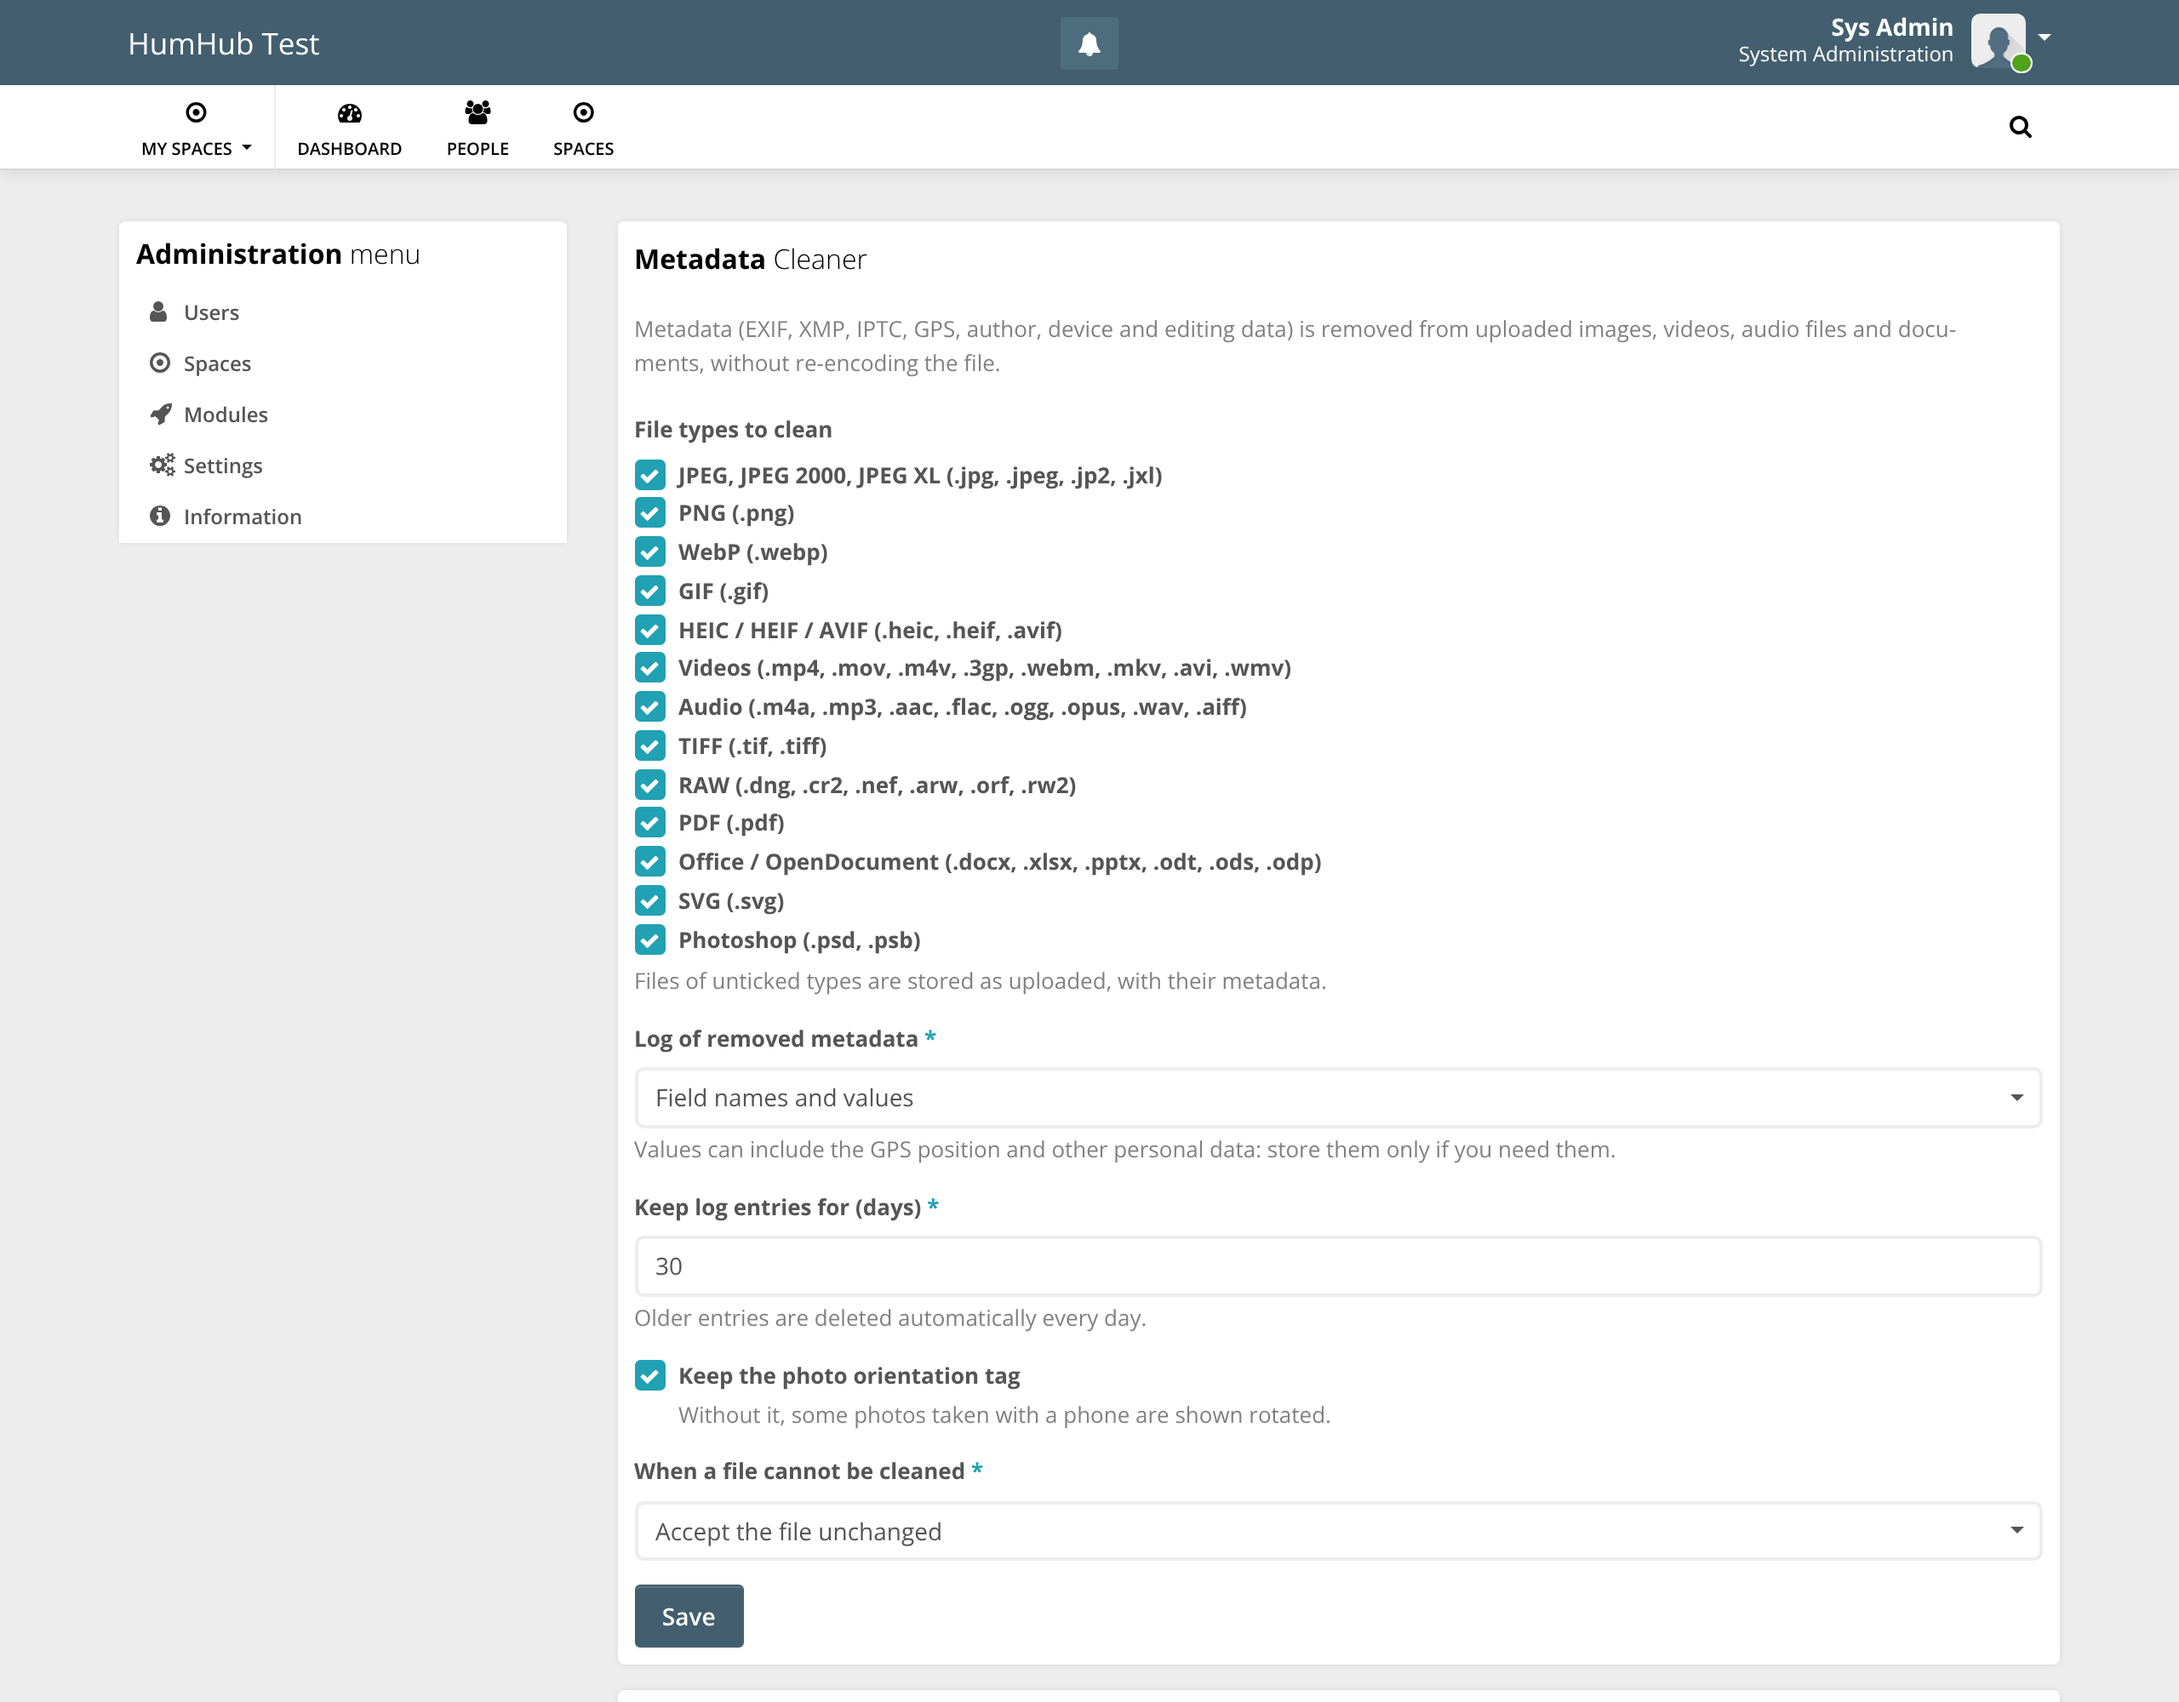
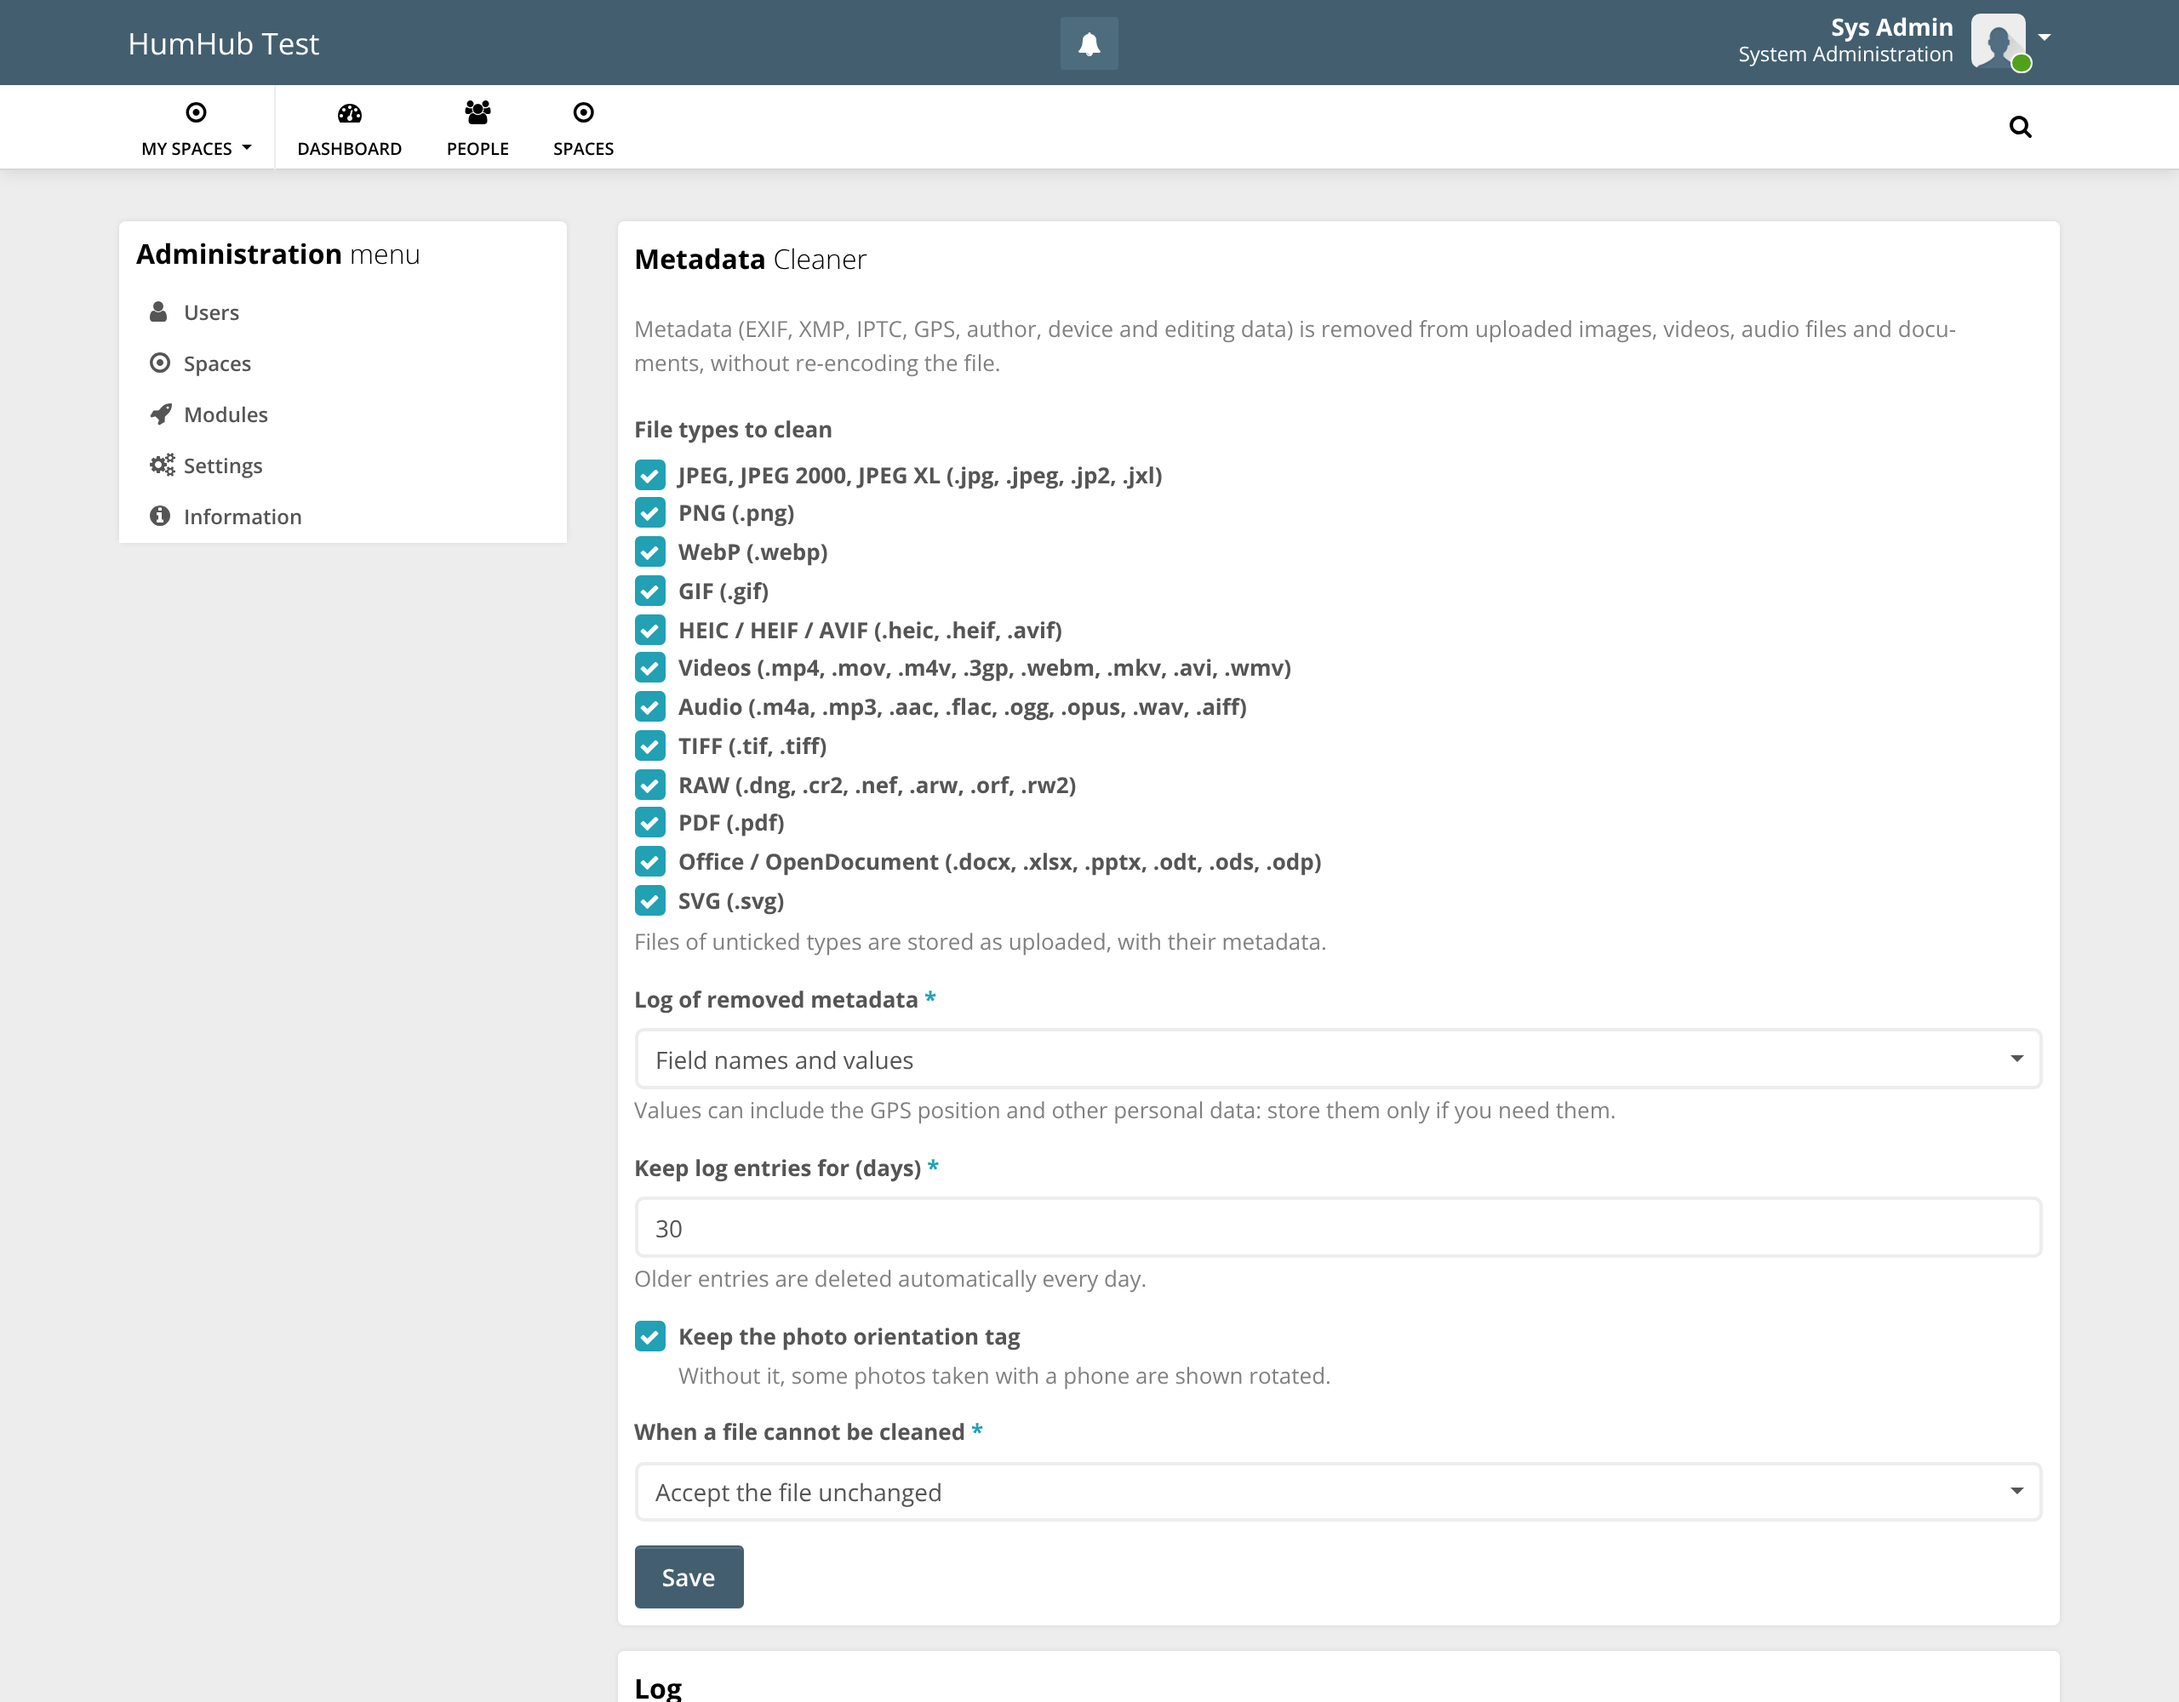
Fix the development Docker stack; PSD in docs and screenshot
tests/docker-compose.yml used mriedmann/humhub-fcgi:1.19.0, which does
not exist on Docker Hub (mriedmann/humhub stops at 1.17), so the stack
could not start. It now uses the official humhub/humhub:1.19 image,
mounts the module in /data/modules-custom (one of the image's module
paths) and serves plain HTTP on port 80. Checked: install via the
console installer, module enabled, uploads cleaned and logged.

Since PSD is no longer cleaned: README lists it among the files stored
unchanged, and the settings screenshot no longer shows a Photoshop
option.

Claude-Session: https://claude.ai/code/session_014CpooEjfXZSP8gLDVLNnuG

diff --git a/docs/README.md b/docs/README.md
@@ -58,7 +58,7 @@ The module removes the metadata stored in the file formats listed above. It does
 - **What the file shows or says.** Faces, number plates, street signs, screen contents, text in a document, voices in a recording: anything that is part of the picture, sound or text itself is not changed.
 - **The file name.** HumHub keeps the name of the uploaded file (for example `IMG_20261104_Milano.jpg` or `CV Mario Rossi.pdf`), which can itself contain personal data.
 - **Content of documents.** In Office and OpenDocument files only the document properties are removed: comments and their authors, tracked changes, hidden text, speaker notes, and the metadata of pictures embedded in the document stay as they are. In PDF files the metadata of embedded images and attached files is not changed.
-- **Other file types.** Camera RAW formats that are not based on TIFF (CR3, RAF, X3F...), legacy Office files (DOC, XLS, PPT), RTF, EPUB, flat OpenDocument XML files, compressed SVG (SVGZ), JPEG XL files without a container (bare codestream: they hold no metadata), archives (ZIP, RAR, 7z) and their contents are stored unchanged.
+- **Other file types.** Camera RAW formats that are not based on TIFF (CR3, RAF, X3F...), legacy Office files (DOC, XLS, PPT), RTF, EPUB, flat OpenDocument XML files, compressed SVG (SVGZ), Photoshop files (PSD, PSB: recognised, but not cleaned yet), JPEG XL files without a container (bare codestream: they hold no metadata), archives (ZIP, RAR, 7z) and their contents are stored unchanged.
 - **Files that cannot be cleaned safely.** Encrypted PDF files, PDF streams with unusual compression, ZIP64 or encrypted Office files, SVG files with entity declarations and damaged files are passed on unchanged (or rejected, depending on the settings), and the error is logged.
 - **Technical data that is kept on purpose,** because the file needs it: the EXIF orientation tag (optional), colour profiles, the camera model name that DNG files require (`UniqueCameraModel`), the encoder name inside Ogg and AAC audio streams, and the empty application fields that Matroska requires.
 - **Files uploaded before the module was enabled**, and images that HumHub stores outside the file library (such as profile and space images), are not processed.
